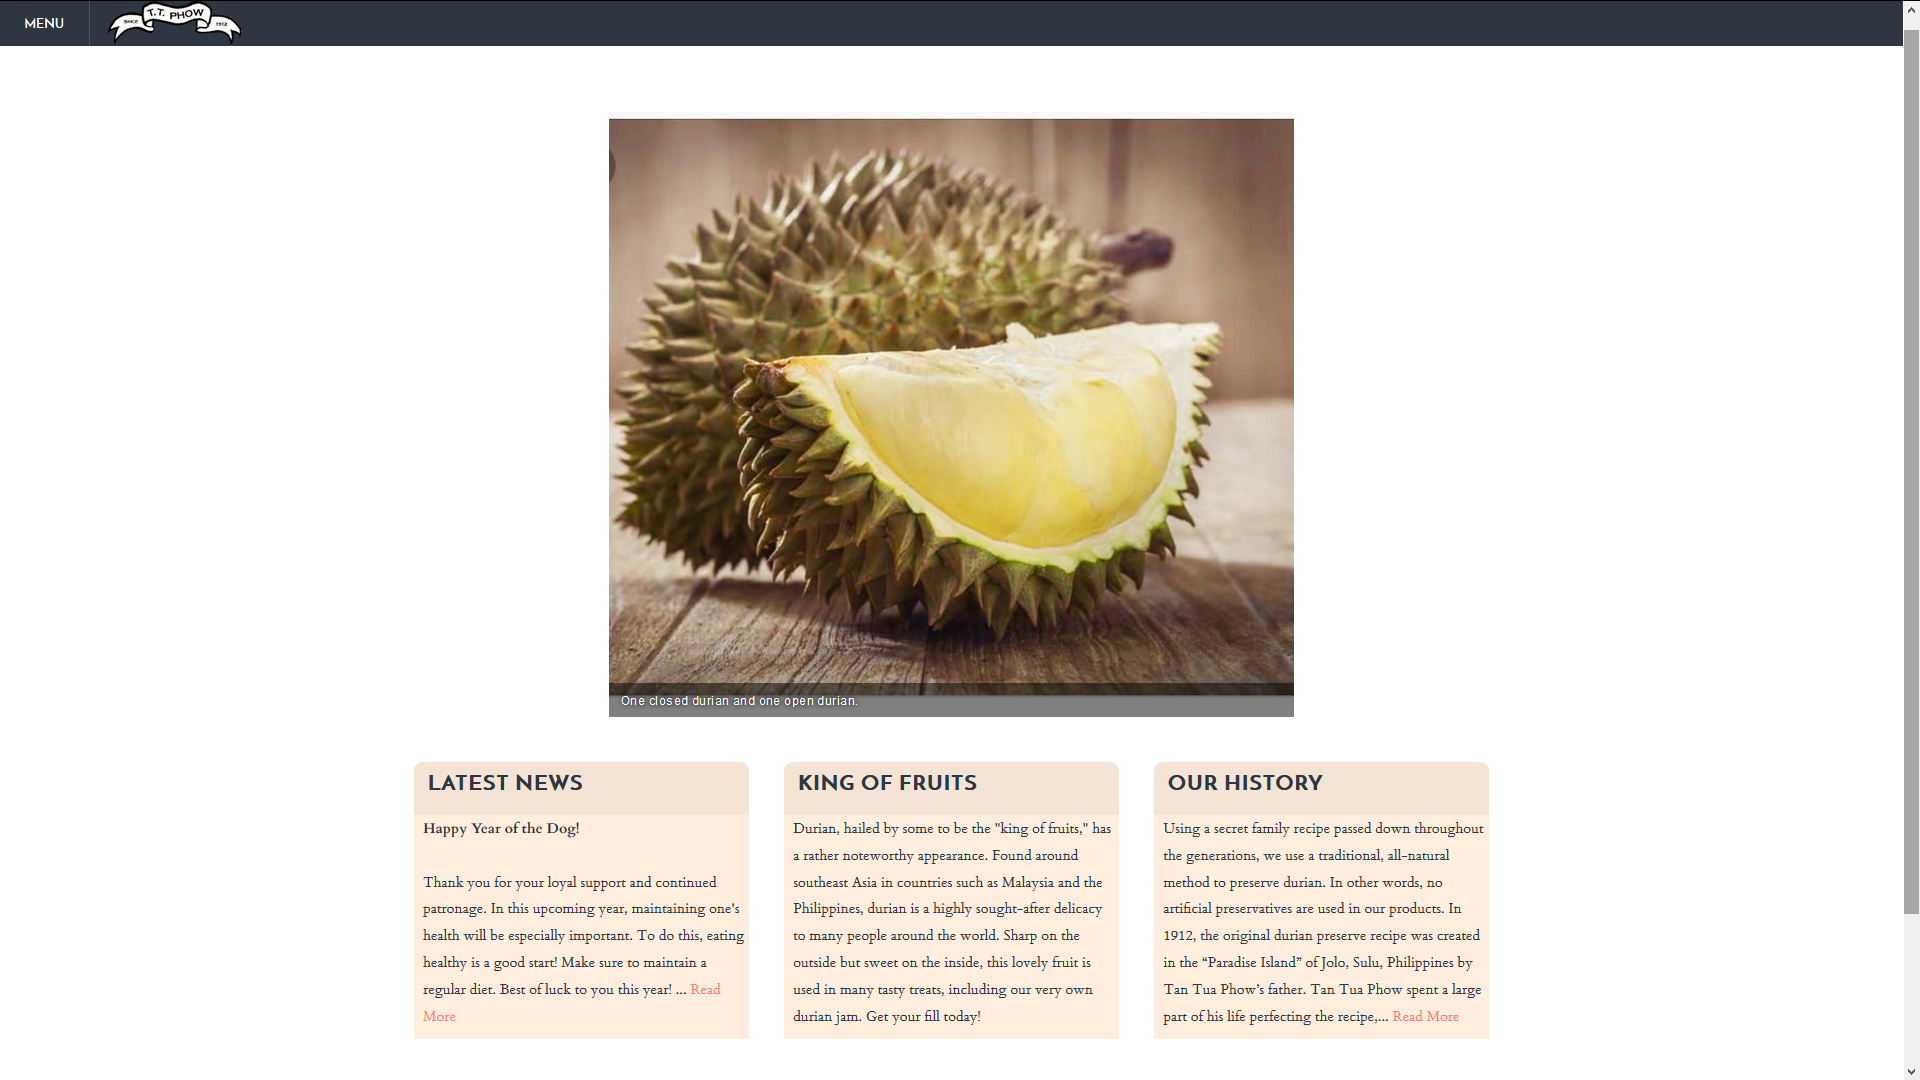
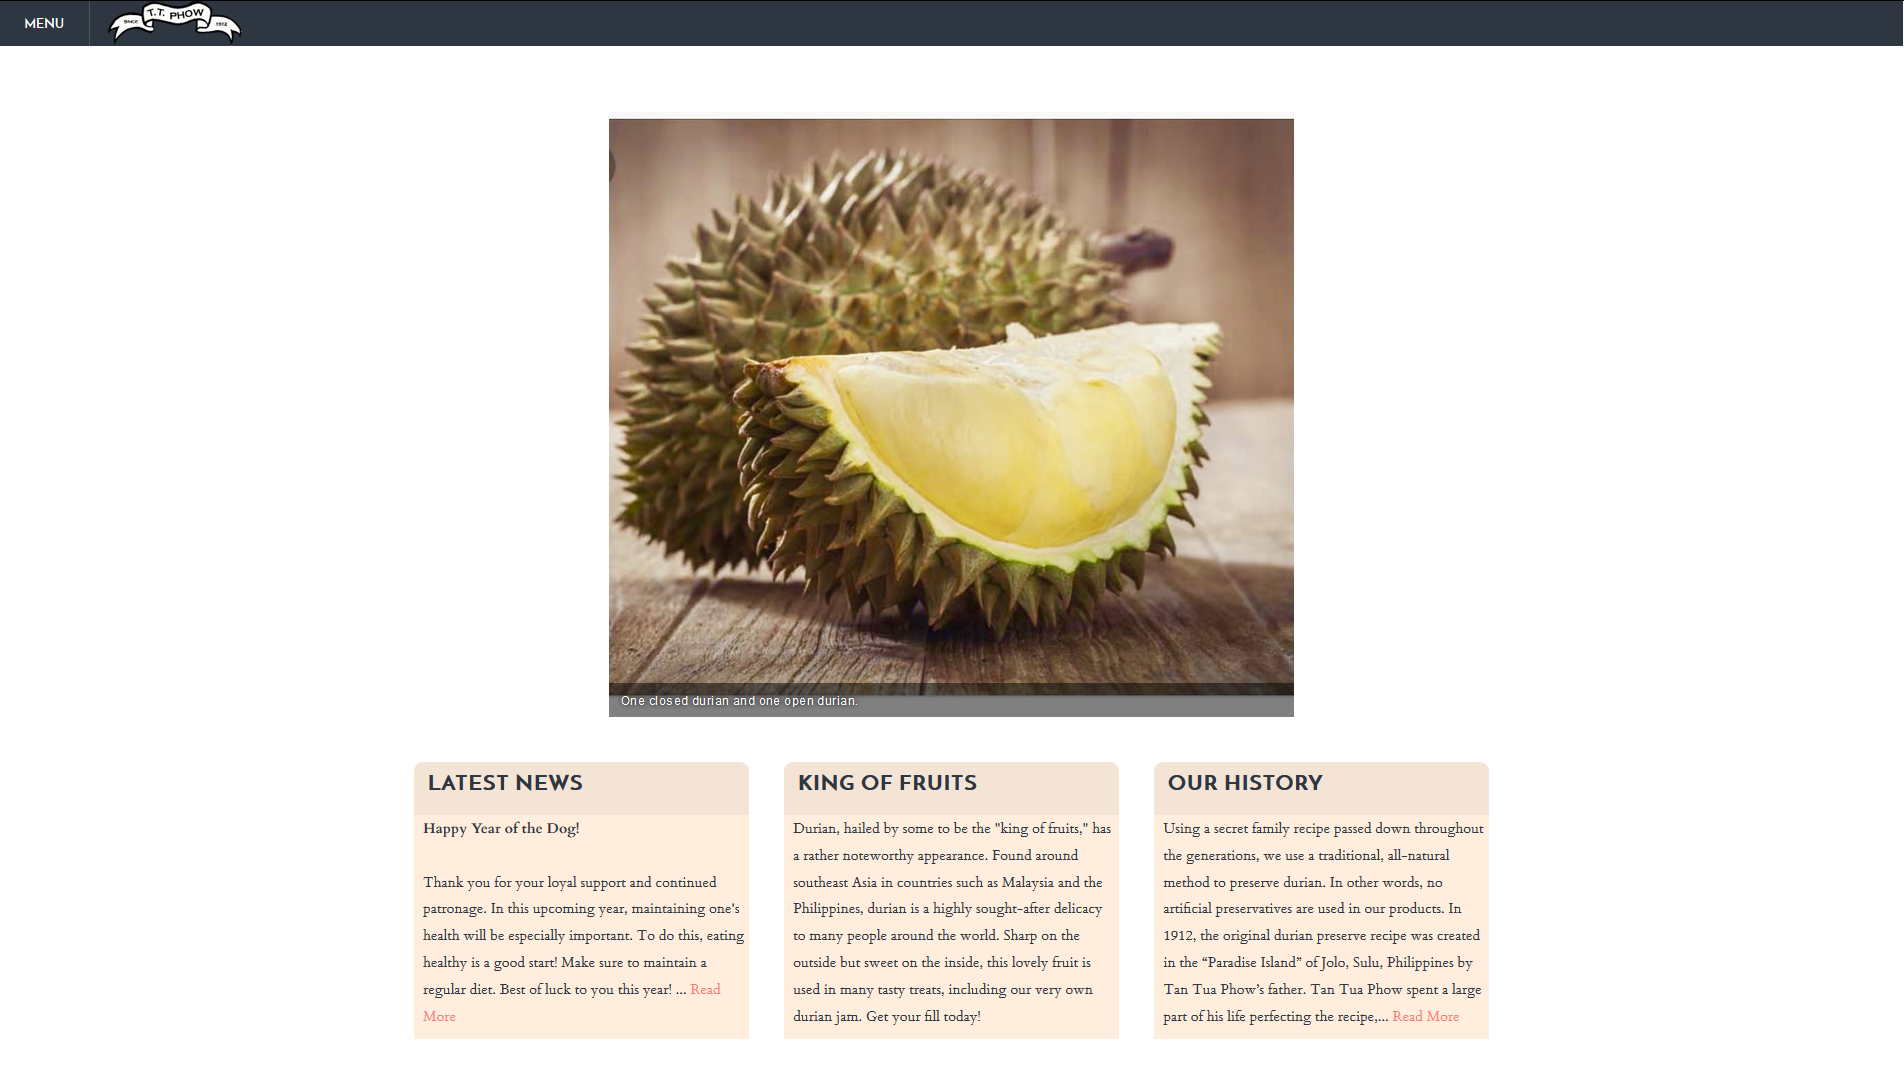
updated image and fixed link to durianjam

diff --git a/index.html b/index.html
@@ -385,7 +385,7 @@
                   <div class="divider-custom-line"></div>
                 </div>
                 <!-- Portfolio Modal - Image -->
-                <img class="img-fluid rounded mb-5" src="img/portfolio/wwwdurianjam.png" href="https://www.durianjam.com" alt="">
+                <a href="https://www.durianjam.com"><img class="img-fluid rounded mb-5" src="img/portfolio/wwwdurianjam.png" alt=""></a>
                 <!-- Portfolio Modal - Text -->
                 <p class="mb-5">Durian Preserve is a company selling a naturally-preserved version of durian jam. I was in charge of migrating and managing their website in 2016. The image above shows the front page of Durian Preserve's website and links directly to their domain.</p>
                 <button class="btn btn-primary" href="#" data-dismiss="modal">
